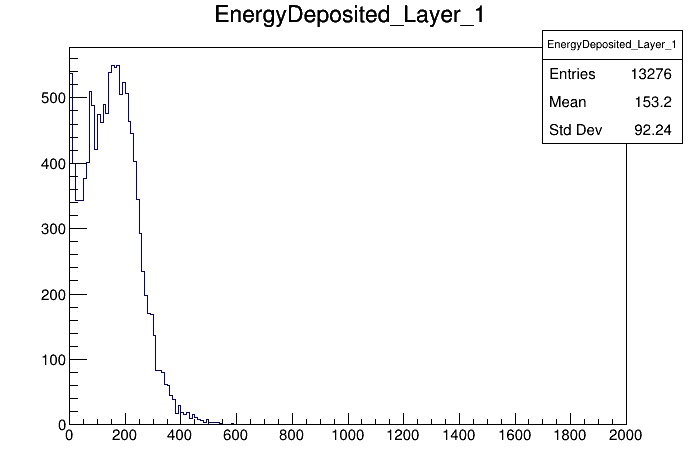
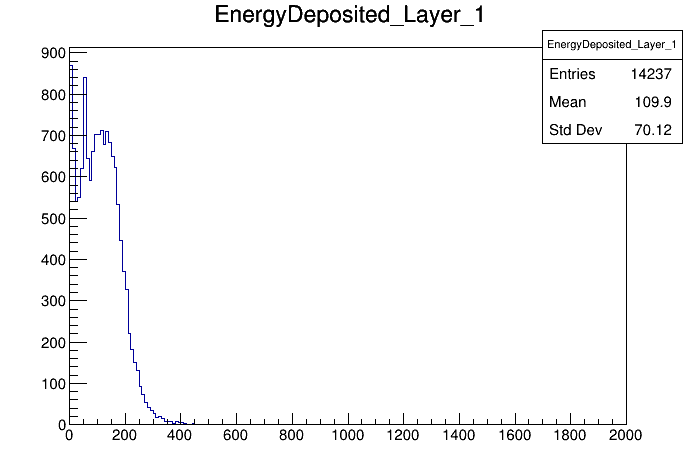
Instead of PFA we are using TS3_CM and using the older version of conversion files

diff --git a/EngReco.py b/EngReco.py
@@ -96,10 +96,10 @@ for event in Tree_Input:
 
     for Layer in event.Hit_Sensor_Layer:
         skiroc = (event.Hit_Sensor_Skiroc)[Count]
-        # HG = (event.Hit_Sensor_Cell_HG)[Count]  - (event.Hit_Sensor_Cell_HG_Sub)[Count]
-        # LG = (event.Hit_Sensor_Cell_LG)[Count] - (event.Hit_Sensor_Cell_LG_Sub)[Count]
-        HG = (event.Hit_Sensor_Cell_HG_Amplitude)[Count]
-        LG = (event.Hit_Sensor_Cell_LG_Amplitude)[Count]
+        HG = (event.Hit_Sensor_Cell_HG)[Count]  - (event.Hit_Sensor_Cell_HG_Sub)[Count]
+        LG = (event.Hit_Sensor_Cell_LG)[Count] - (event.Hit_Sensor_Cell_LG_Sub)[Count]
+        # HG = (event.Hit_Sensor_Cell_HG_Amplitude)[Count]
+        # LG = (event.Hit_Sensor_Cell_LG_Amplitude)[Count]
         TOT = (event.Hit_Sensor_Cell_ToT_Slow)[Count]
         Count +=1 # Don't forget this guy.
         # MIP = ADCtoMIPS(HG,LG,TOT,1)
